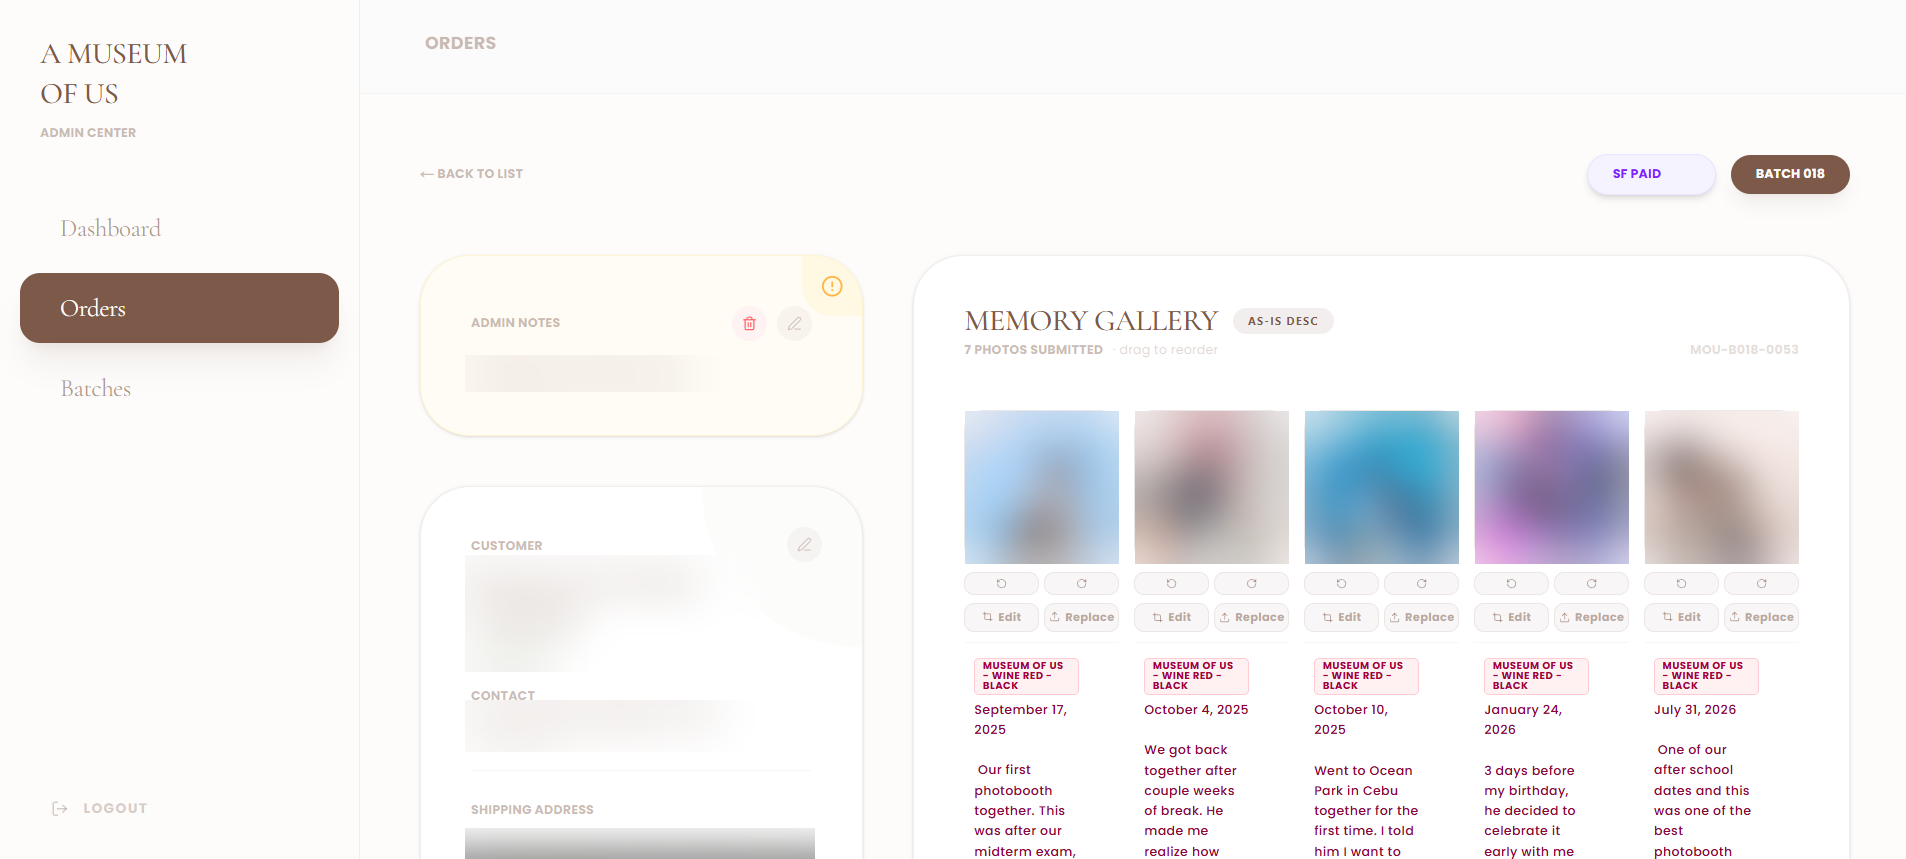
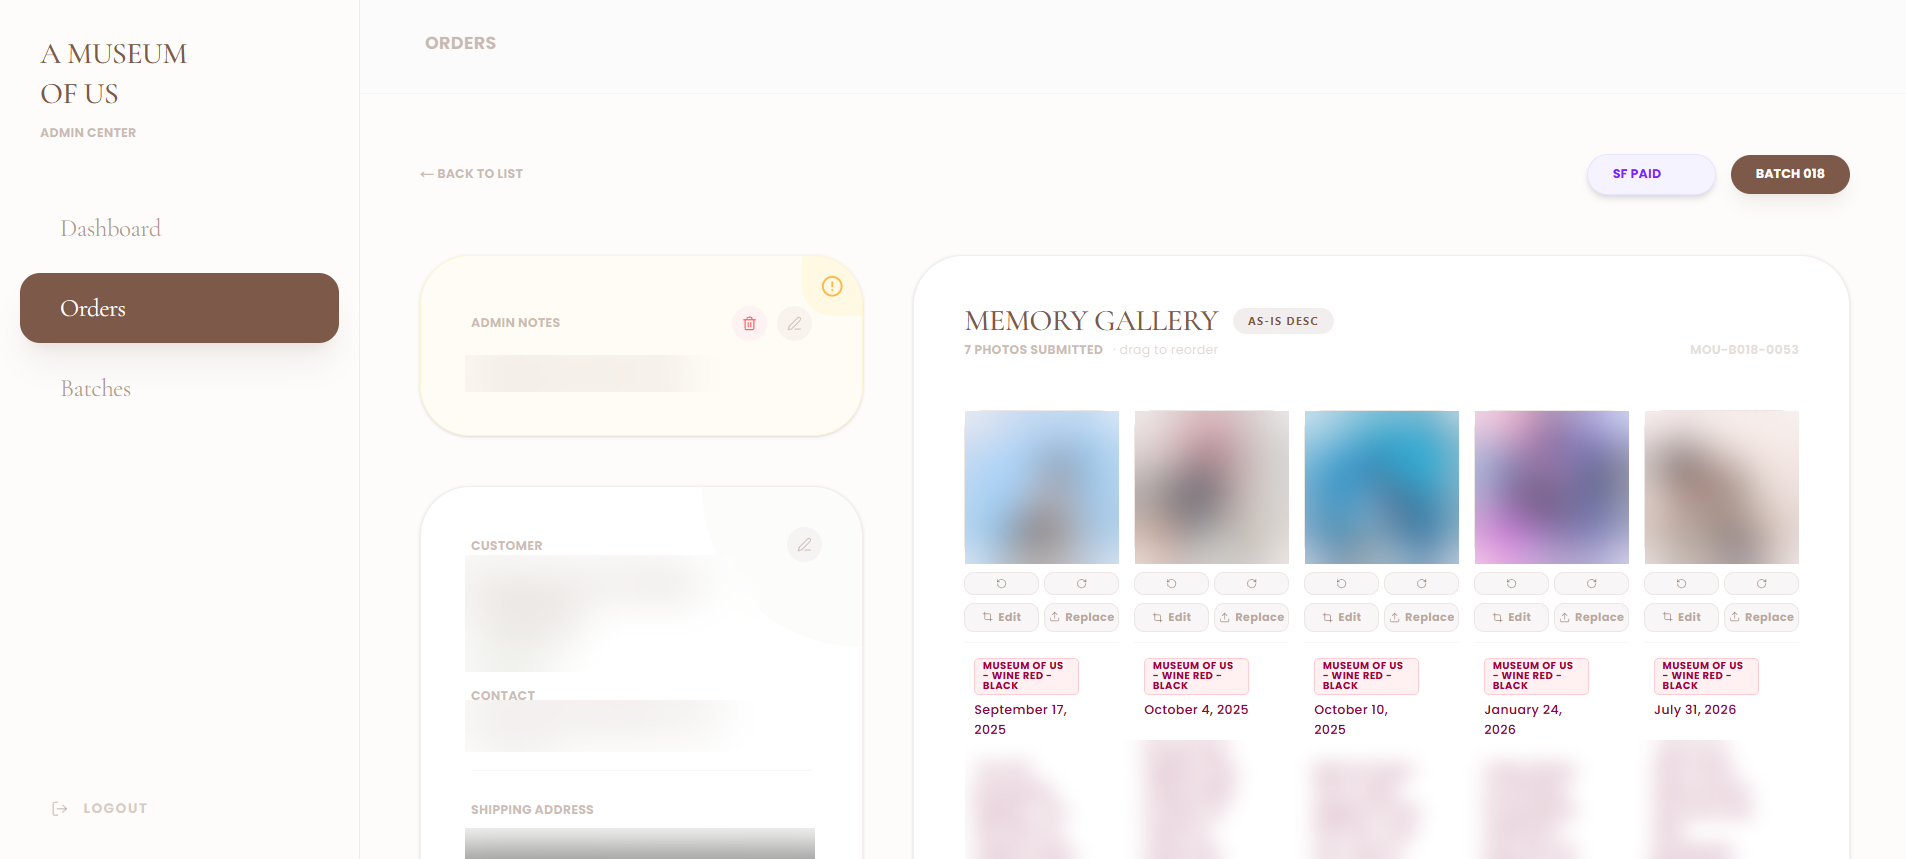
docs: blur customer stories and add checkout and email screenshots

diff --git a/README.md b/README.md
@@ -25,7 +25,7 @@ Each product is a handmade frame built from a customer's own photos and stories,
 
 ## Screenshots
 
-Customer names, contact details, photos and payment account details have been blurred.
+Customer names, contact details, photos, personal stories and payment account details have been blurred.
 
 | | |
 |---|---|
@@ -35,6 +35,15 @@ Customer names, contact details, photos and payment account details have been bl
 | **Order management** with 9 filters and bulk actions | **Batch management** with capacity, revenue and production lists |
 | ![Order detail](screenshots/06-order-detail.png) | ![Waitlist](screenshots/10-waitlist.png) |
 | **Order detail**: memory gallery with drag-and-drop ordering, photo editing and replacement | **Waitlist** with CSV export and batch-open notifications |
+
+### Customer checkout experience
+
+| | |
+|---|---|
+| ![Photo upload step](screenshots/11-photo-upload-step.png) | ![Order received](screenshots/12-order-received.png) |
+| **Photo upload step**: exact photo count per product, a description for each photo, and a choice between AI-enhanced or as-is captions | **Order confirmation** with a unique order ID generated inside the order transaction |
+| ![Order queued email](screenshots/13-email-order-queued.png) | ![Order summary email](screenshots/14-email-order-summary.png) |
+| **Automated email** sent from the studio's own domain after the order is saved | **Itemized receipt** calculated on the server |
 
 ### From customer story to printed exhibit card
 
